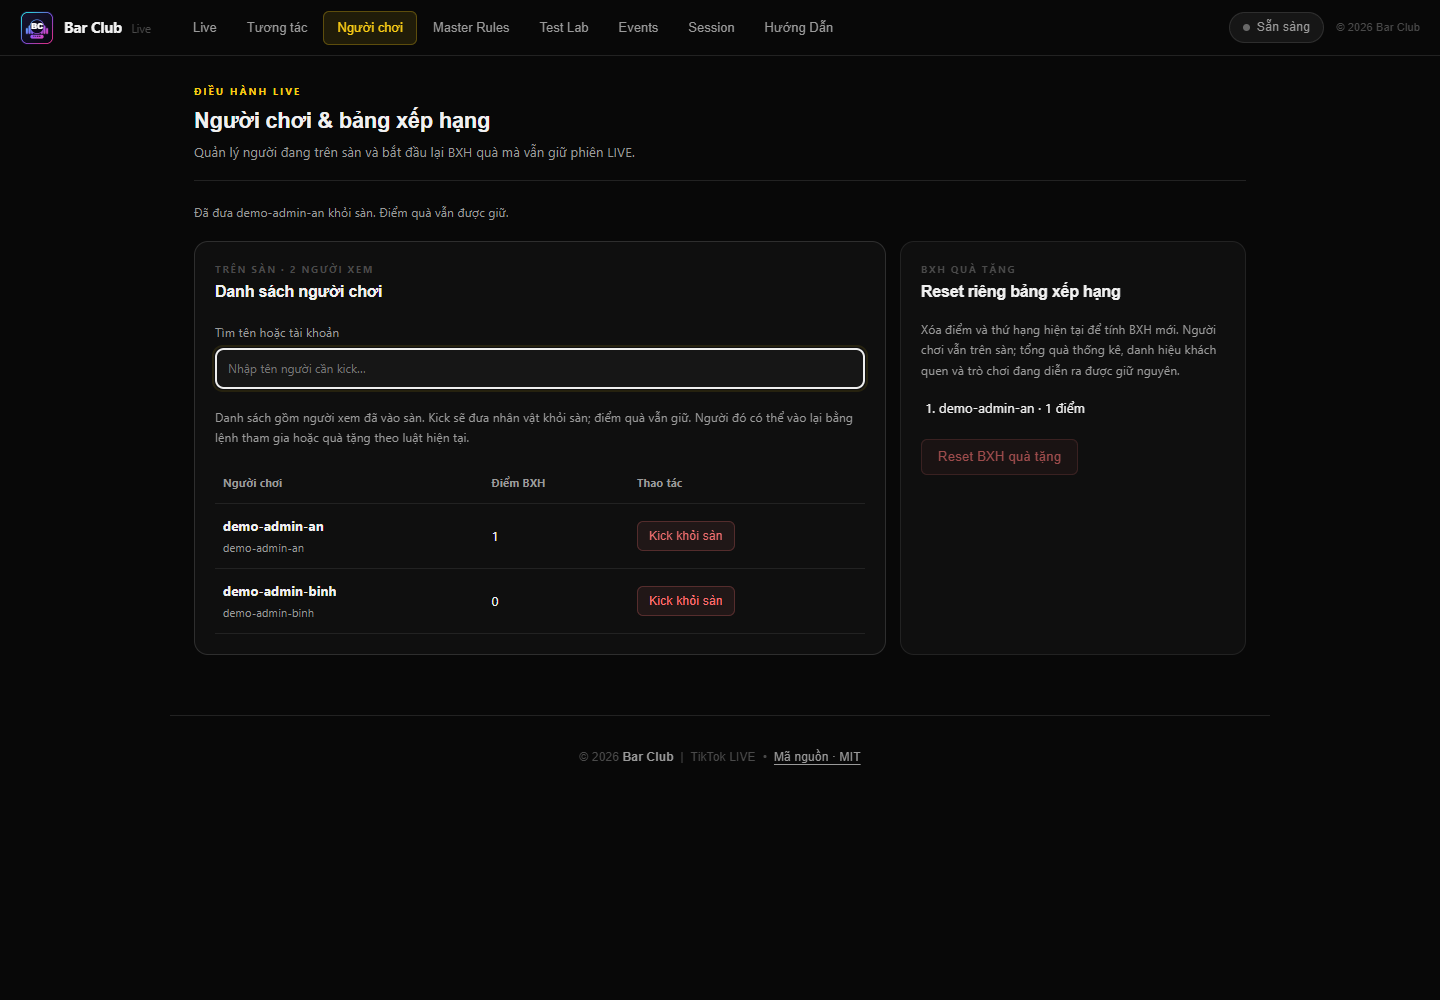
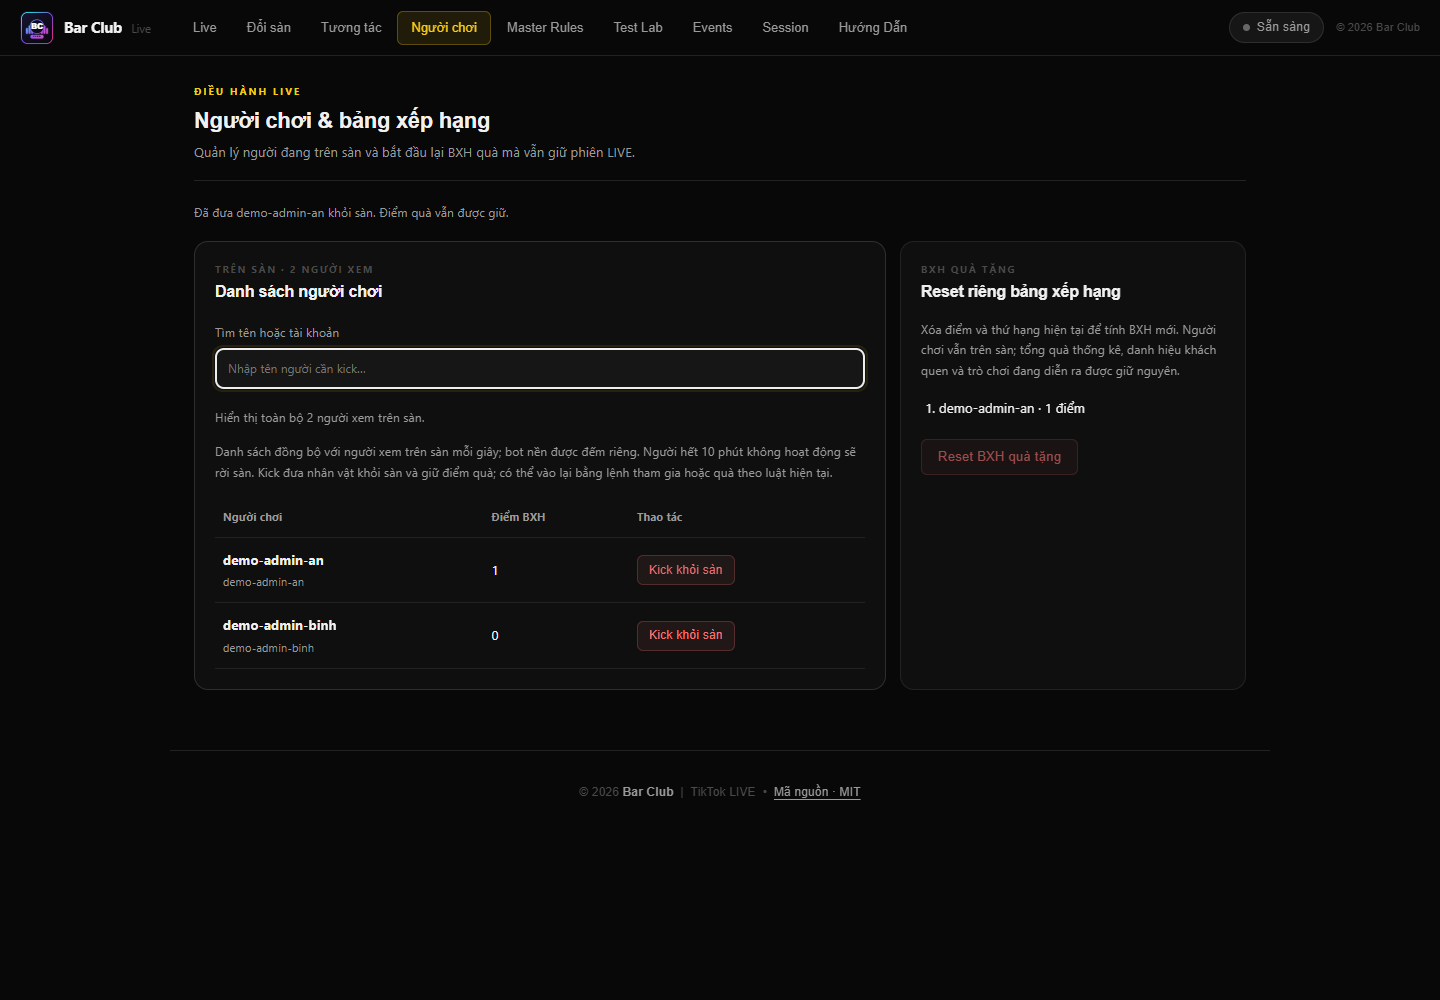
fix: keep dancers synchronized with the moderation roster

diff --git a/TikTokBridge/test/engagement-integration.test.js b/TikTokBridge/test/engagement-integration.test.js
@@ -21,8 +21,8 @@ async function client(port, role) {
     socket.on('message', data => messages.push(JSON.parse(data)));
     await new Promise((resolve, reject) => { socket.once('open', resolve); socket.once('error', reject); });
     socket.send(JSON.stringify({ type: 'register', role }));
-    return { socket, messages, send: data => socket.send(JSON.stringify(data)), async until(predicate) {
-        for (let attempt = 0; attempt < 100; attempt++) {
+    return { socket, messages, send: data => socket.send(JSON.stringify(data)), async until(predicate, timeoutMs = 2500) {
+        for (let attempt = 0; attempt < Math.ceil(timeoutMs / 25); attempt++) {
             const found = messages.find(predicate);
             if (found) return found;
             await sleep(25);
@@ -30,6 +30,40 @@ async function client(port, role) {
         throw new Error('Expected bridge message did not arrive');
     } };
 }
+
+test('admin and renderer share the same roster when idle players expire, retaining donor scores', { timeout: 15000 }, async t => {
+    const directory = fs.mkdtempSync(path.join(os.tmpdir(), 'barclub-roster-'));
+    const now = Date.now();
+    const players = [
+        { userId: 'expired', nickname: 'Expired', lastActive: now - 601000 },
+        { userId: 'expiring', nickname: 'Expiring', lastActive: now - 595000 },
+        { userId: 'active', nickname: 'Active', lastActive: now }
+    ];
+    fs.writeFileSync(path.join(directory, 'session.json'), JSON.stringify({ version: 1, savedAt: now,
+        metrics: { source: 'idle' }, players, vipScores: [{ userId: 'expired', score: 100 }, { userId: 'expiring', score: 25 }] }));
+    const port = await freePort();
+    const child = spawn(process.execPath, ['server.js'], { cwd: path.join(__dirname, '..'), windowsHide: true,
+        env: { ...process.env, PORT: String(port), HOST: '127.0.0.1', DATA_DIR: directory }, stdio: 'ignore' });
+    const clients = [];
+    t.after(async () => {
+        for (const item of clients) item.socket.terminate();
+        if (child.exitCode === null) { const exited = new Promise(resolve => child.once('exit', resolve)); child.kill(); await exited; }
+        fs.rmSync(directory, { recursive: true, force: true });
+    });
+    for (let attempt = 0; attempt < 100; attempt++) {
+        try { if ((await fetch(`http://127.0.0.1:${port}/api/health`)).ok) break; } catch { /* startup */ }
+        await sleep(25);
+    }
+    const control = await client(port, 'control'); clients.push(control);
+    const overlay = await client(port, 'overlay'); clients.push(overlay);
+    const initial = await overlay.until(m => m.type === 'floor_roster');
+    assert.deepEqual(initial.players.map(p => p.userId).sort(), ['active', 'expiring']);
+    assert.deepEqual((await control.until(m => m.type === 'floor_roster')).players, initial.players);
+    const isExpired = m => m.type === 'floor_roster' && m.players.length === 1 && m.players[0].userId === 'active';
+    const after = await overlay.until(isExpired, 9000);
+    assert.deepEqual((await control.until(isExpired)).players, after.players);
+    assert.deepEqual(after.vipScores.map(donor => donor.score), [100, 25]);
+});
 
 test('bridge enforces activity permissions, filters gift streaks, avoids duplicate scores and restores donors', { timeout: 20000 }, async t => {
     const directory = fs.mkdtempSync(path.join(os.tmpdir(), 'barclub-integration-'));

diff --git a/TikTokBridge/scripts/moderation-ui-smoke.js b/TikTokBridge/scripts/moderation-ui-smoke.js
@@ -13,8 +13,10 @@ const path = require('node:path');
     const seed = (name, value) => socket.send(JSON.stringify({ type: 'demo_event', action: 'gift', manualUsername: name, value }));
     seed('demo-admin-an', 5); seed('demo-admin-binh', 2);
     const browser = await chromium.launch({ channel: 'chrome', headless: true });
+    let page;
     try {
-        const page = await browser.newPage({ viewport: { width: 1440, height: 1000 } });
+        page = await browser.newPage({ viewport: { width: 1440, height: 1000 } });
+        page.setDefaultTimeout(10000);
         const errors = []; page.on('pageerror', error => errors.push(error.message));
         await page.goto(`${base.origin}/control.html`);
         await page.getByRole('button', { name: 'Người chơi', exact: true }).click();
@@ -28,6 +30,7 @@ const path = require('node:path');
         assert.equal(await page.locator('#floor-player-list tr').count(), 2);
         await page.locator('#floor-player-search').fill('admin-an');
         assert.equal(await page.locator('#floor-player-list tr').count(), 1);
+        assert.match(await page.locator('#floor-player-match-count').textContent(), /1 \/ 2/);
         await page.getByRole('button', { name: 'Kick khỏi sàn', exact: true }).click();
         await page.waitForFunction(() => !window.floorModeration.players.some(p => p.userId === 'demo-admin-an'));
         await page.locator('#floor-player-search').fill('');
@@ -40,5 +43,5 @@ const path = require('node:path');
         assert.equal(await page.evaluate(() => document.documentElement.scrollWidth > innerWidth), false);
         assert.deepEqual(errors, []);
         console.log('Moderation UI smoke passed');
-    } finally { socket.close(); await browser.close(); }
+    } finally { socket.close(); if (page && !page.isClosed()) await page.close(); await browser.close(); }
 })().catch(error => { console.error(error); process.exitCode = 1; });

diff --git a/TikTokBridge/public/control.html b/TikTokBridge/public/control.html
@@ -372,7 +372,8 @@
             <p class="card-label">Trên sàn · <span id="floor-player-count">0</span> người xem</p>
             <h2 class="card-title">Danh sách người chơi</h2>
             <label class="roster-search">Tìm tên hoặc tài khoản<input id="floor-player-search" type="search" placeholder="Nhập tên người cần kick…"></label>
-            <p class="help">Danh sách gồm người xem đã vào sàn. Kick sẽ đưa nhân vật khỏi sàn; điểm quà vẫn giữ. Người đó có thể vào lại bằng lệnh tham gia hoặc quà tặng theo luật hiện tại.</p>
+            <p id="floor-player-match-count" class="help"></p>
+            <p class="help">Danh sách đồng bộ với người xem trên sàn mỗi giây; bot nền được đếm riêng. Người hết 10 phút không hoạt động sẽ rời sàn. Kick đưa nhân vật khỏi sàn và giữ điểm quà; có thể vào lại bằng lệnh tham gia hoặc quà theo luật hiện tại.</p>
             <div class="roster-table-wrap"><table class="roster-table"><thead><tr><th>Người chơi</th><th>Điểm BXH</th><th>Thao tác</th></tr></thead><tbody id="floor-player-list"></tbody></table></div>
         </article>
         <article class="card">

diff --git a/TikTokBridge/public/moderation-control.js b/TikTokBridge/public/moderation-control.js
@@ -18,6 +18,9 @@ const floorModeration = {
         const list = document.getElementById('floor-player-list');
         const matches = this.players.filter(player => normalize(`${player.nickname} ${player.uniqueId} ${player.userId}`).includes(query))
             .sort((a, b) => (b.lastActive || 0) - (a.lastActive || 0));
+        document.getElementById('floor-player-match-count').textContent = query
+            ? `Đang hiển thị ${matches.length} / ${this.players.length} người theo tìm kiếm.`
+            : `Hiển thị toàn bộ ${this.players.length} người xem trên sàn.`;
         list.replaceChildren(...matches.map(player => {
             const row = document.createElement('tr'); row.dataset.userId = player.userId;
             const identity = document.createElement('td');

diff --git a/TikTokBridge/server.js b/TikTokBridge/server.js
@@ -131,7 +131,7 @@ function floorRosterMessage() {
 function broadcastFloorRoster() {
     const message = floorRosterMessage();
     for (const client of wss.clients)
-        if (client.registered && client.role === 'control') send(client, message);
+        if (client.registered) send(client, message);
 }
 
 if (!ALLOW_LAN && !isLoopbackAddress(HOST) && HOST.toLowerCase() !== 'localhost') {
@@ -816,6 +816,7 @@ async function handleClientMessage(ws, message) {
         if (ws.role === 'overlay') {
             send(ws, createSnapshot());
             send(ws, viewerGuideMessage());
+            send(ws, floorRosterMessage());
         }
         return;
     }

diff --git a/UnityProject/Assets/Scripts/PlayerManager.cs b/UnityProject/Assets/Scripts/PlayerManager.cs
@@ -17,6 +17,7 @@ namespace TikTokLiveGame
         private int focusVersion;
         private string focusedUserId;
         private float nextNpcRefillAt;
+        private float lastRosterAt = float.NegativeInfinity;
         private const float NpcAmbientAlpha = 1f;
         private const float FocusedCrowdAlpha = 0.22f;
         private const float FocusedNpcAlpha = 0.14f;
@@ -40,6 +41,8 @@ namespace TikTokLiveGame
         };
 
         public int Count => players.Count;
+        public int ViewerCount => players.Values.Count(actor => !actor.IsNpc);
+        public int BotCount => players.Count - ViewerCount;
         public PlayerActor Find(string userId) => !string.IsNullOrWhiteSpace(userId) && players.TryGetValue(userId, out PlayerActor actor) ? actor : null;
 
         public bool TryGetCrowdBounds(out Bounds bounds)
@@ -135,6 +138,11 @@ namespace TikTokLiveGame
 
         public void Handle(TikTokEvent data)
         {
+            if (data.type == "floor_roster")
+            {
+                SynchronizeRoster(data.players);
+                return;
+            }
             if (data.type == "player_kicked")
             {
                 Remove(data.userId);
@@ -154,7 +162,7 @@ namespace TikTokLiveGame
             }
             if (data.type is not ("member" or "chat" or "gift" or "like" or "follow" or "share")) return;
 
-            if (data.spectatorOnly && Find(data.userId) == null) return;
+            if (data.spectatorOnly) return;
 
             PlayerActor actor = GetOrCreate(data);
             if (actor == null) return;
@@ -183,6 +191,29 @@ namespace TikTokLiveGame
             else if (data.type == "like" && data.likeMilestone)
                 ApplyAction(actor, data, data.durationMs > 0 ? data.durationMs / 1000f : 8f);
             else if (data.type is "follow" or "share") actor.Celebrate();
+        }
+
+        private void SynchronizeRoster(TikTokPlayerData[] roster)
+        {
+            roster ??= System.Array.Empty<TikTokPlayerData>();
+            HashSet<string> activeIds = roster.Where(player => player != null && !string.IsNullOrWhiteSpace(player.userId))
+                .Select(player => player.userId).ToHashSet();
+            bool removed = false;
+            foreach (string id in players.Where(pair => !pair.Value.IsNpc && !activeIds.Contains(pair.Key)).Select(pair => pair.Key).ToArray())
+            {
+                Remove(id, false);
+                removed = true;
+            }
+            foreach (TikTokPlayerData player in roster)
+            {
+                if (player == null || string.IsNullOrWhiteSpace(player.userId) || player.userId.StartsWith("npc-")) continue;
+                if (!players.TryGetValue(player.userId, out PlayerActor actor)) Create(player);
+                else actor.UpdateIdentity(new TikTokEvent { userId = player.userId, uniqueId = player.uniqueId,
+                    nickname = player.nickname, avatar = player.avatar, team = player.team,
+                    loyaltyTitle = player.loyaltyTitle, loyaltyDays = player.loyaltyDays });
+            }
+            if (removed) ReflowPlayers();
+            lastRosterAt = Time.unscaledTime;
         }
 
         private static void ApplyAction(PlayerActor actor, TikTokEvent data, float duration)
@@ -307,8 +338,11 @@ namespace TikTokLiveGame
         private void Update()
         {
             float cutoff = Time.unscaledTime - playerTtlSeconds;
-            foreach (string id in players.Where(pair => !pair.Value.IsNpc && pair.Value.LastActiveTime < cutoff).Select(pair => pair.Key).ToArray())
-                Remove(id);
+            // While connected, the Bridge decides who is on the floor. Fall back
+            // to local expiry only after roster updates have stopped.
+            if (Time.unscaledTime - lastRosterAt > 3f)
+                foreach (string id in players.Where(pair => !pair.Value.IsNpc && pair.Value.LastActiveTime < cutoff).Select(pair => pair.Key).ToArray())
+                    Remove(id);
             if (Time.unscaledTime >= nextNpcRefillAt) EnsureNpcCrowd();
         }
 
@@ -321,6 +355,7 @@ namespace TikTokLiveGame
             playerOrder.Clear();
             crowdSlots.Clear();
             nextNpcRefillAt = 0f;
+            lastRosterAt = float.NegativeInfinity;
             EnsureNpcCrowd();
         }
 
@@ -330,7 +365,7 @@ namespace TikTokLiveGame
             if (!string.IsNullOrEmpty(oldest.Key)) Remove(oldest.Key);
         }
 
-        private void Remove(string id)
+        private void Remove(string id, bool reflow = true)
         {
             if (!players.Remove(id, out PlayerActor actor)) return;
             bool wasNpc = actor.IsNpc;
@@ -344,7 +379,7 @@ namespace TikTokLiveGame
                 foreach (PlayerActor remaining in players.Values) remaining.SetGiftFocus(false);
                 ApplyAmbientVisibility();
             }
-            ReflowPlayers();
+            if (reflow) ReflowPlayers();
             if (!wasNpc) nextNpcRefillAt = Time.unscaledTime + 30f;
         }
 

diff --git a/UnityProject/Assets/Scripts/TikTokGameController.cs b/UnityProject/Assets/Scripts/TikTokGameController.cs
@@ -63,6 +63,15 @@ namespace TikTokLiveGame
 
         private void HandleEvent(TikTokEvent liveEvent)
         {
+            if (liveEvent.type == "floor_roster")
+            {
+                playerManager.Handle(liveEvent);
+                donors.Clear();
+                foreach (TikTokPlayerData donor in liveEvent.vipScores ?? System.Array.Empty<TikTokPlayerData>())
+                    donors[donor.userId] = new Donor(donor.userId, donor.nickname, donor.score);
+                UpdateTopPlayers();
+                return;
+            }
             if (liveEvent.type == "engagement_state")
             {
                 ApplyEngagement(liveEvent.engagement);
@@ -269,7 +278,7 @@ namespace TikTokLiveGame
             if (controlTab == 0)
             {
                 GUI.Label(new Rect(34, 136, 330, 28), connectionStatus, labelStyle);
-                GUI.Label(new Rect(34, 166, 330, 24), $"Người chơi {playerManager?.Count ?? 0}   Event {events}   Diamond {diamonds}", smallStyle);
+                GUI.Label(new Rect(34, 166, 330, 24), $"Trên sàn {playerManager?.ViewerCount ?? 0} người xem · {playerManager?.BotCount ?? 0} bot nền", smallStyle);
                 username = GUI.TextField(new Rect(34, 196, 205, 38), username, inputStyle);
                 if (GUI.Button(new Rect(247, 196, 118, 38), "KẾT NỐI", buttonStyle))
                 {

diff --git a/UnityProject/Assets/Scripts/VisualCaptureHarness.cs b/UnityProject/Assets/Scripts/VisualCaptureHarness.cs
@@ -54,6 +54,12 @@ namespace TikTokLiveGame
             yield return new WaitForSecondsRealtime(1f);
             if (System.IO.File.Exists(path)) Debug.Log($"Floor preview saved to {path}");
             else Debug.LogWarning($"Floor preview was not written: {path}");
+            if (Array.IndexOf(arguments, "-verifyRosterLifecycle") >= 0)
+            {
+                yield return new WaitForSecondsRealtime(4f);
+                PlayerManager manager = FindFirstObjectByType<PlayerManager>();
+                Debug.Log($"ROSTER_AFTER viewers={manager.ViewerCount} bots={manager.BotCount}");
+            }
             if (Array.IndexOf(Environment.GetCommandLineArgs(), "-captureExit") >= 0) Application.Quit();
         }
 

diff --git a/UnityProject/Assets/Scripts/PlayerActor.cs b/UnityProject/Assets/Scripts/PlayerActor.cs
@@ -346,8 +346,10 @@ namespace TikTokLiveGame
 
         public void SetTopRank(int rank)
         {
+            rank = Mathf.Clamp(rank, 0, 3);
+            if (rank == topRank) return;
             int previousRank = topRank;
-            topRank = Mathf.Clamp(rank, 0, 3);
+            topRank = rank;
             lineupScale = LineupScaleForRank();
             home = topRank > 0 ? RankPodiumPosition(topRank) : normalHome;
             rankLabel.text = topRank > 0 ? $"TOP {topRank}" : string.Empty;

diff --git a/docs/testing/engagement-features.md b/docs/testing/engagement-features.md
@@ -2,10 +2,11 @@
 
 Các kiểm tra đã thực hiện cho bản Bar Club LIVE trong `Yuh266/bar-tiktok`:
 
-- `npm test`: 51 kiểm tra đạt, gồm module và kết nối WebSocket thực với một Bridge thử nghiệm riêng.
+- `npm test`: 52 kiểm tra đạt, gồm module và kết nối WebSocket thực với một Bridge thử nghiệm riêng.
 - Mục Đổi sàn: chọn/lưu đủ bốn mẫu, hiển thị Đang dùng, ảnh mẫu tải được và không tràn ngang ở 390px. Sàn LED ô vuông cổ điển dùng lại shader gốc; không thêm lựa chọn thứ tư vào luật bình chọn 1/2/3.
 - Kết thúc đấu đội: chốt danh sách người thắng, xóa màu đội cho mọi người (kể cả khi hòa), dùng danh sách đã chốt để trao phóng to/huy hiệu/vòng vàng và pháo hoa trong 12 giây.
 - Quản trị: chỉ client quản trị được reset BXH/kick. Reset giữ người chơi và tổng quà thống kê; quà tiếp theo bắt đầu điểm BXH mới. Kick giữ điểm quà, không bị chat/like thông thường đưa trở lại; lệnh vào sàn cho phép vào lại. Trạng thái được kiểm tra qua khởi động lại Bridge.
+- Danh sách trên sàn dùng chung cho quản trị và Unity, gửi mỗi giây. Kiểm tra Bridge thật xác nhận người hết 10 phút được loại ở cả hai client, giữ nguyên điểm quà. Runtime nạp 100 nhân vật cũ rồi nhận danh sách 4 người: còn đúng 4 người + 5 bot; nhận danh sách trống: còn 0 người + 5 bot. Gói chat/like mang `spectatorOnly` không giữ nhân vật cũ lại; cập nhật danh sách không phát lại quà hoặc khởi động lại hiệu ứng. Tìm kiếm quản trị hiển thị số kết quả trên tổng số người.
 - `npm run test:moderation-ui -- http://127.0.0.1:3100`: tìm người, hủy/xác nhận reset, kick và vào lại; không tràn ngang ở 390px, không có lỗi JavaScript.
 - Chat TikTok: kiểm tra bằng encode/decode schema `WebcastChatMessage` v3 thực của thư viện đang cài; nội dung nằm ở `content` vẫn được nhận, đồng thời giữ tương thích `comment` cũ. Chat `xanh` qua Bridge thực tạo thành viên đội Xanh, `hey` tạo lệnh vào sàn.
 - Mốc 100 tim: đọc `count/total` của TikTok v3 và giữ `likeCount/totalLikeCount` cũ. Encode/decode schema `WebcastLikeMessage` thực xác nhận gói 99 rồi 1 kích hoạt `grow` 8 giây; gói 0 không tự cộng tim, tổng tim cả phòng không cộng vào riêng một người. Kiểm tra qua Bridge thật xác nhận người chưa vào sàn xuất hiện và phóng to khi đủ 100, đủ 100 tiếp theo kích hoạt lại, không cộng điểm quà vào BXH.

diff --git a/README.md b/README.md
@@ -51,6 +51,7 @@ Trong web quản trị → **Người chơi**:
 - Tìm người đang trên sàn theo tên/tài khoản rồi bấm **Kick khỏi sàn**. Nhân vật bị gỡ ngay; điểm quà được giữ. Chat/like thông thường không tự đưa người đó trở lại. Họ có thể vào lại bằng lệnh tham gia, quà hoặc tương tác được luật vào sàn cho phép.
 - **Reset BXH quà tặng** → **Xác nhận reset BXH** để tính lại thứ hạng từ 0. Người chơi, tổng quà thống kê, khách quen và sự kiện đang chạy vẫn được giữ.
 - Danh sách tự cập nhật. Trạng thái đã kick và điểm BXH sau reset được lưu cùng phiên LIVE.
+- Game và danh sách kick dùng cùng danh sách người trên sàn, đồng bộ mỗi giây. Người hết 10 phút không tương tác được gỡ ở cả hai nơi; điểm BXH vẫn giữ. Số người xem trên sàn được đếm riêng với 5 bot nền; khi tìm kiếm, quản trị hiển thị số kết quả trên tổng số người.
 
 Ảnh WebP TikTok được chuyển sang PNG bằng dịch vụ ảnh nội bộ. Dữ liệu người xem, danh hiệu, phiên LIVE và quà đã học được lưu tại `TikTokBridge/data/` và không đưa vào Git. Phiên trong vòng 12 giờ có thể khôi phục BXH và tự kết nối lại sau khi khởi động lại Bridge.
 
